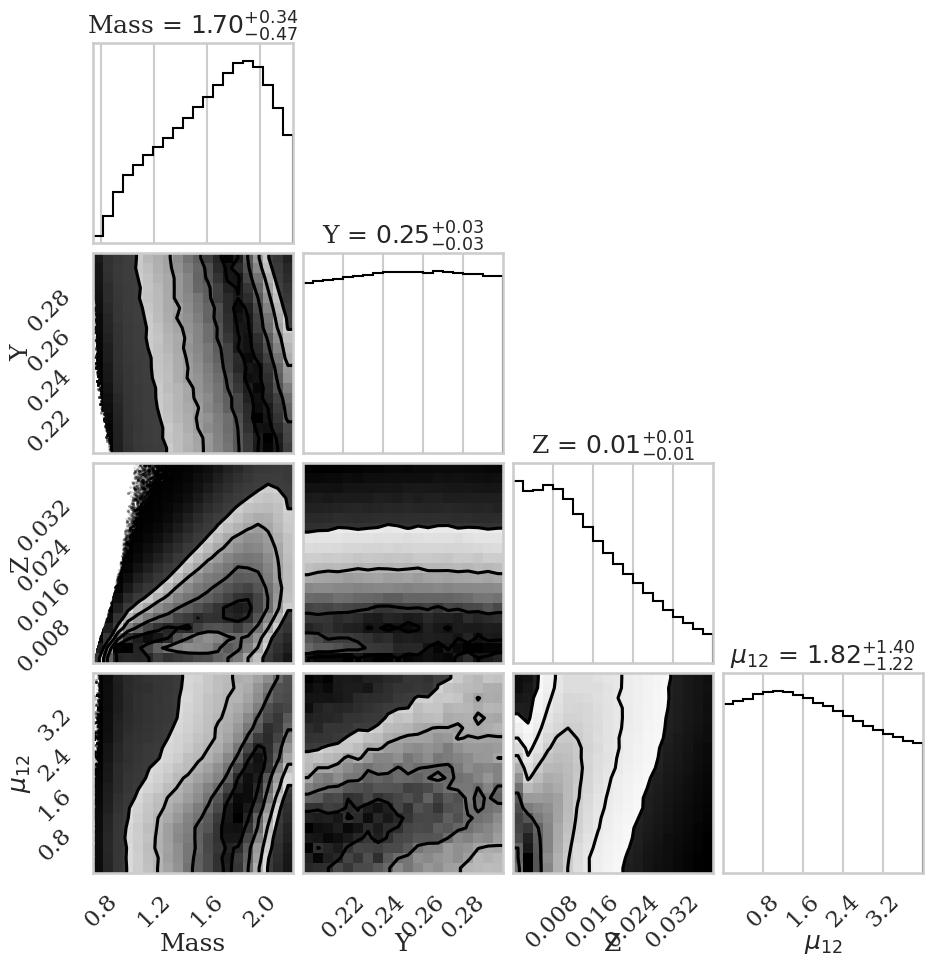
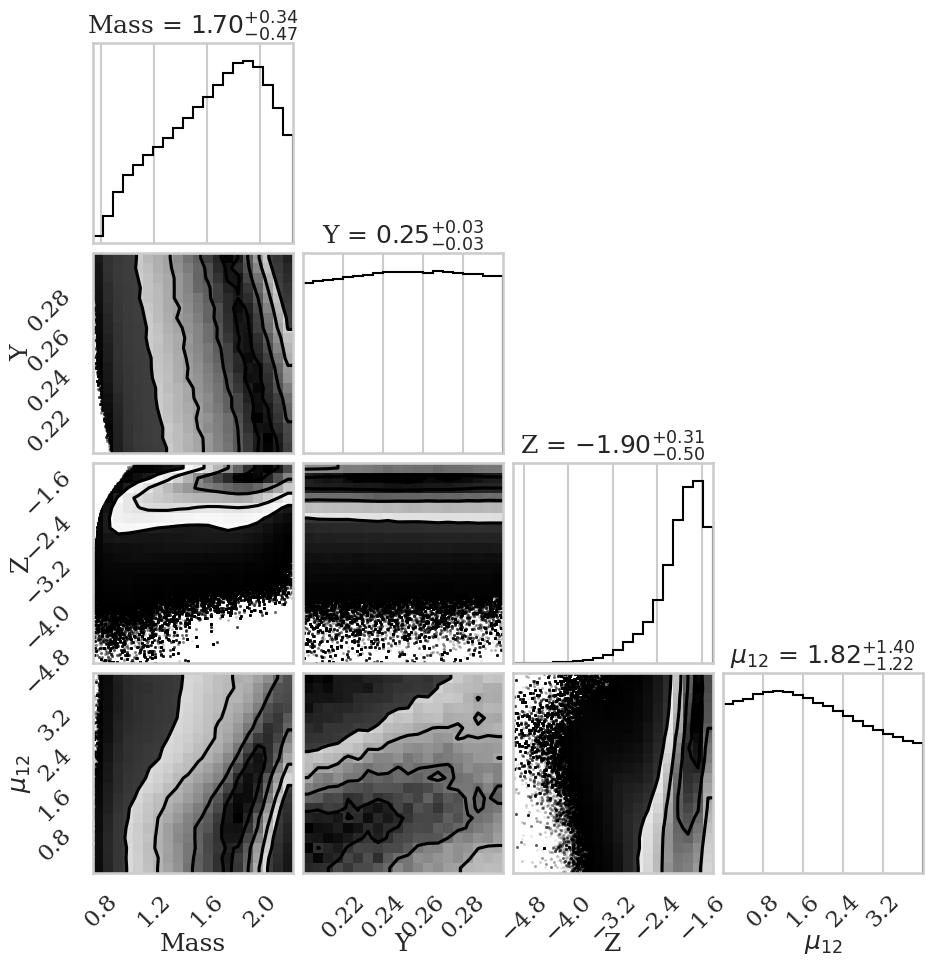
update pretty corner plot

Changed region(s): [[0.0311, 0.4348, 0.7779, 0.9938]]

diff --git a/mcmc/analyzeMCMC.py b/mcmc/analyzeMCMC.py
@@ -17,9 +17,12 @@ def plotCorner():
     Create a prettier corner plot
     '''
 
-    flatSamples = np.load('chain.npy')
+    chain = np.load('chain.npy')
 
-    fig = corner.corner(flatSamples,
+    # log Z
+    chain[:, 2] = np.log10(chain[:, 2])
+    
+    fig = corner.corner(chain,
                         labels=['Mass', 'Y', 'Z', r'$\mu_{12}$'],
                         show_titles=True)
     fig.savefig("corner_pretty.jpeg", bbox_inches='tight', transparent=False)
